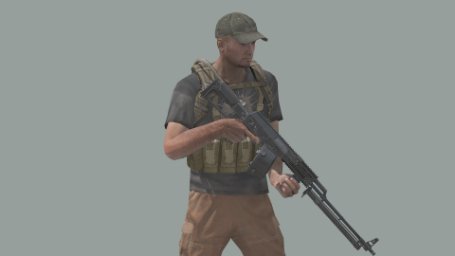
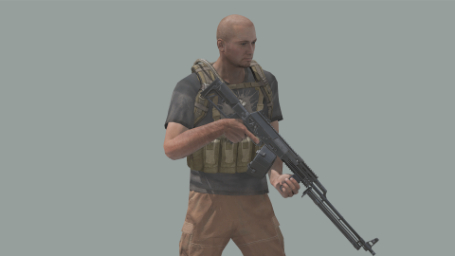
Somali / Taliban - General Fixes (#89)

Changed region(s): [[0.4615, 0.0312, 0.5846, 0.1875]]

diff --git a/addons/taliban/config.cpp b/addons/taliban/config.cpp
@@ -24,6 +24,7 @@ class CfgPatches {
             "TACU_Taliban_Militia_V_I_Kamaz_ZU23",
             "TACU_Taliban_Militia_V_I_Kamaz_Transport",
             "TACU_Taliban_Militia_V_I_Kamaz_Covered_Transport",
+            "TACU_Taliban_Militia_V_I_Truck",
             "TACU_Taliban_Militia_V_I_Offroad_Unarmed",
             "TACU_Taliban_Militia_V_I_Offroad_HMG",
             "TACU_Taliban_Militia_V_I_Offroad_AT",
@@ -47,6 +48,7 @@ class CfgPatches {
             "TACU_Taliban_Militia_V_O_Kamaz_ZU23",
             "TACU_Taliban_Militia_V_O_Kamaz_Transport",
             "TACU_Taliban_Militia_V_O_Kamaz_Covered_Transport",
+            "TACU_Taliban_Militia_V_O_Truck",
             "TACU_Taliban_Militia_V_O_Offroad_Unarmed",
             "TACU_Taliban_Militia_V_O_Offroad_HMG",
             "TACU_Taliban_Militia_V_O_Offroad_AT",
@@ -72,6 +74,7 @@ class CfgPatches {
             "TACU_Taliban_Veterans_V_I_Kamaz_ZU23",
             "TACU_Taliban_Veterans_V_I_Kamaz_Transport",
             "TACU_Taliban_Veterans_V_I_Kamaz_Covered_Transport",
+            "TACU_Taliban_Veterans_V_I_Truck",
             "TACU_Taliban_Veterans_V_I_Offroad_Unarmed",
             "TACU_Taliban_Veterans_V_I_Offroad_HMG",
             "TACU_Taliban_Veterans_V_I_Offroad_AT",
@@ -99,6 +102,7 @@ class CfgPatches {
             "TACU_Taliban_Veterans_V_O_Kamaz_ZU23",
             "TACU_Taliban_Veterans_V_O_Kamaz_Transport",
             "TACU_Taliban_Veterans_V_O_Kamaz_Covered_Transport",
+            "TACU_Taliban_Veterans_V_O_Truck",
             "TACU_Taliban_Veterans_V_O_Offroad_Unarmed",
             "TACU_Taliban_Veterans_V_O_Offroad_HMG",
             "TACU_Taliban_Veterans_V_O_Offroad_AT",

diff --git a/addons/somali_pirates/CfgVehicles_I.hpp b/addons/somali_pirates/CfgVehicles_I.hpp
@@ -9,32 +9,13 @@ class TACU_Somali_Pirates_U_I_Rifleman_01: TACU_Main_U_INDEP_Soldier_Base {
     icon = "iconMan";
     role = "Rifleman";
     uniformClass = "U_I_C_Soldier_Bandit_4_F";
-    linkedItems[] = {
-        DEFAULT_ITEMS_RADIO,
-        "H_Cap_blk",
-        "V_Chestrig_khk"
-    };
-    respawnLinkedItems[] = {
-        DEFAULT_ITEMS_RADIO,
-        "H_Cap_blk",
-        "V_Chestrig_khk"
-    };
+    linkedItems[] = {DEFAULT_ITEMS_RADIO, "V_Chestrig_khk"};
+    respawnLinkedItems[] = {DEFAULT_ITEMS_RADIO, "V_Chestrig_khk"};
     weapons[] = {"arifle_AK12_arid_F","Throw", "Put"};
     respawnWeapons[] = {"arifle_AK12_arid_F","Throw", "Put"};
     magazines[] = {mag_6("tacgt_AI_30Rnd_762x39_AK"), mag_2("HandGrenade")};
     respawnMagazines[] = {mag_6("tacgt_AI_30Rnd_762x39_AK"), mag_2("HandGrenade")};
-    headgearList[] = {
-        "H_Bandanna_gry", 0.1,
-        "H_Bandanna_cbr", 0.1,
-        "H_Booniehat_khk", 0.1,
-        "H_Cap_blk", 0.1,
-        "H_Cap_tan", 0.1,
-        "lxWS_H_turban_03_black", 0.1,
-        "lxWS_H_turban_03_blue", 0.1,
-        "lxWS_H_turban_03_green", 0.1,
-        "lxWS_H_turban_03_sand", 0.1,
-        "lxWS_H_turban_03_gray", 0.1
-    };
+    headgearList[] = {};
     CBA_facewearList[] = {
         "G_Bandanna_blk", 0.12,
         "G_Bandanna_khk", 0.12,

diff --git a/addons/taliban/Veterans/CfgVehicles_Vehicles_Veterans.hpp b/addons/taliban/Veterans/CfgVehicles_Vehicles_Veterans.hpp
@@ -53,6 +53,22 @@ class TACU_Taliban_Veterans_V_O_Kamaz_Covered_Transport: TACU_Taliban_Veterans_V
     typicalCargo[] = {"TACU_Taliban_Veterans_U_O_Driver"};
 };
 
+class TACU_Taliban_Veterans_V_I_Truck: TACU_Truck_Base {
+    MACRO_FACTION_VEHICLE_DEFAULTS;
+    faction = "TACU_Taliban_Veterans_I";
+    side = 2;
+    crew = "TACU_Taliban_Veterans_U_I_Driver";
+    typicalCargo[] = {"TACU_Taliban_Veterans_U_I_Driver"};
+    textureList[] = {"Guerilla_03", 1};
+};
+class TACU_Taliban_Veterans_V_O_Truck: TACU_Taliban_Veterans_V_I_Truck {
+    faction = "TACU_Taliban_Veterans_O";
+    side = 0;
+    crew = "TACU_Taliban_Veterans_U_O_Driver";
+    typicalCargo[] = {"TACU_Taliban_Veterans_U_O_Driver"};
+};
+
+
 // Offroads
 class TACU_Taliban_Veterans_V_I_Offroad_Unarmed: TACU_Offroad_Unarmed_Base {
     MACRO_FACTION_VEHICLE_DEFAULTS;

diff --git a/addons/taliban/Militia/CfgVehicles_Vehicles_Militia.hpp b/addons/taliban/Militia/CfgVehicles_Vehicles_Militia.hpp
@@ -53,6 +53,21 @@ class TACU_Taliban_Militia_V_O_Kamaz_Covered_Transport: TACU_Taliban_Militia_V_I
     typicalCargo[] = {"TACU_Taliban_Militia_U_O_Driver"};
 };
 
+class TACU_Taliban_Militia_V_I_Truck: TACU_Truck_Base {
+    MACRO_FACTION_VEHICLE_DEFAULTS;
+    faction = "TACU_Taliban_Militia_I";
+    side = 2;
+    crew = "TACU_Taliban_Militia_U_I_Driver";
+    typicalCargo[] = {"TACU_Taliban_Militia_U_I_Driver"};
+    textureList[] = {"Guerilla_03", 1};
+};
+class TACU_Taliban_Militia_V_O_Truck: TACU_Taliban_Militia_V_I_Truck {
+    faction = "TACU_Taliban_Militia_O";
+    side = 0;
+    crew = "TACU_Taliban_Militia_U_O_Driver";
+    typicalCargo[] = {"TACU_Taliban_Militia_U_O_Driver"};
+};
+
 // Offroads
 class TACU_Taliban_Militia_V_I_Offroad_Unarmed: TACU_Offroad_Unarmed_Base {
     MACRO_FACTION_VEHICLE_DEFAULTS;
